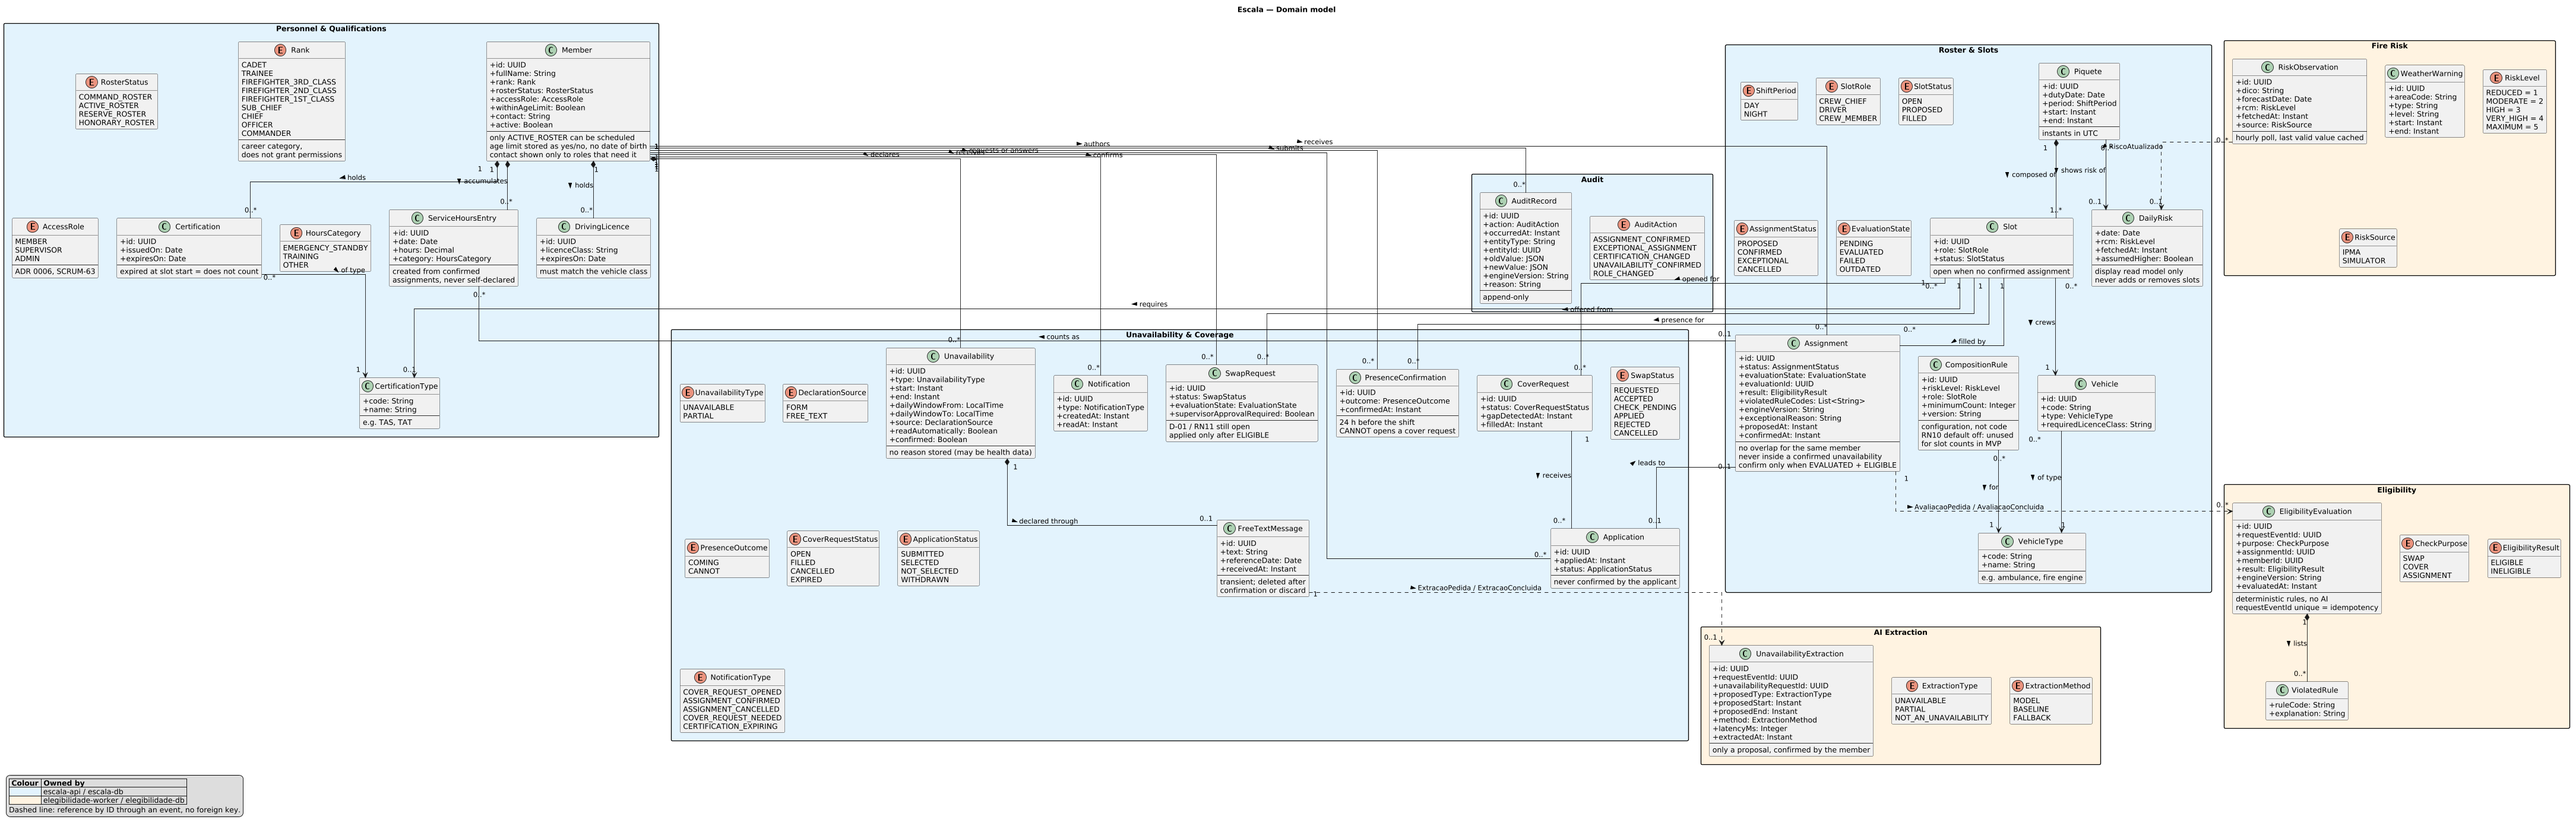
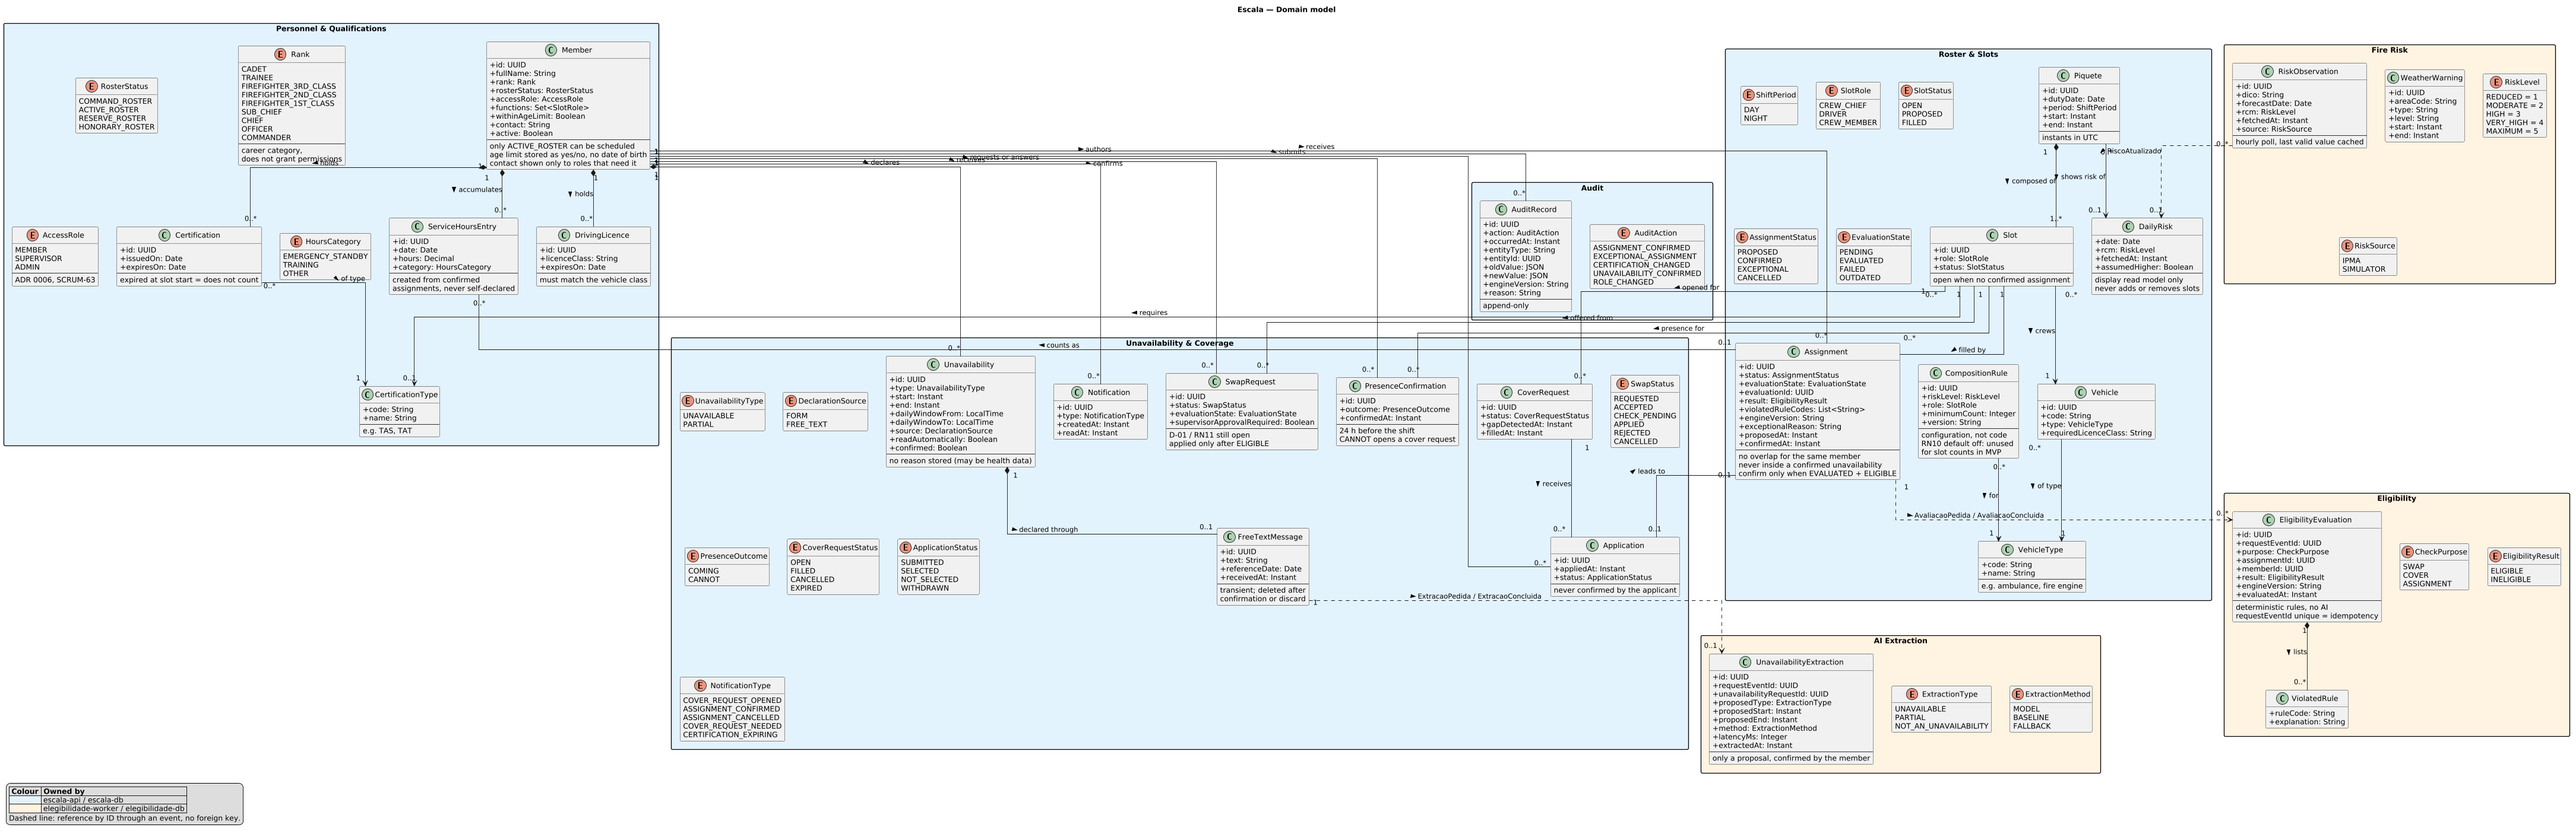
docs: members in the contract, design, domain model and test strategy, SCRUM-77

diff --git a/docs/testing/test-strategy.md b/docs/testing/test-strategy.md
@@ -63,6 +63,8 @@ At least 70% of the lines of new code, measured with JaCoCo (Java services) and 
 | `escala-api` | `EscalaApiApplicationTests` | 1 | The application starts with a PostgreSQL and a RabbitMQ container |
 | `escala-api` | `CreatePiqueteIT` | 2 | Creating a piquete through the API (integration, Testcontainers) |
 | `escala-api` | `RoleAccessIT` | 14 | TC-SCRUM-63-02: a member or the admin calling `POST /api/v1/piquetes` gets `403` and no row changes; TC-SCRUM-63-03: no token, an unreadable token, the token of an unknown or inactive member or with another role answers `401`, and mock-sign-in of an unknown or inactive member answers `401` with no token; TC-SCRUM-63-04: the three health endpoints answer without a token; the mocked users, a working sign-in, and the token never in the logs |
+| `escala-api` | `RegisterMemberIT` | 7 | TC-SCRUM-77-01: the admin registers a member on the active roster as a driver, class C, TAS until 2027-03-31, who appears in the list with those details; TC-SCRUM-77-02: an expiry before the issue date answers `400` with the field and a code and nothing is saved, on registration and on editing; a renewal replaces the dates; a driver without a licence, a missing name, an unknown or repeated type answer `400` without the values; the seeded users |
+| `escala-api` | `MemberAccessIT` | 6 | TC-SCRUM-77-05: a member or a supervisor editing certifications, registering or changing a member gets `403` and nothing changes; the contact only for the admin and the member themself, and never in the logs; the certification types; `404` for an unknown member |
 | `escala-api` | `LogLeakIT` | 4 | TC-SCRUM-94-01, 02, 05, 06 with the levels of dev: a marker in a processed message, in a message the listener rejects, in a request body the API rejects, and in a row the database rejects never reaches the logs |
 | `escala-api` | `LogLeakVerboseLevelsIT` | 2 | TC-SCRUM-94-03, 04 with root `DEBUG`, SQL binds at `TRACE` and Spring AMQP at `DEBUG`: request values, SQL values and message bodies never reach the logs |
 | `escala-api` | `FlywayFreshDatabaseIT` | 1 | TC-SCRUM-87-01: an empty database is built by the migrations and its columns and constraints are identical to the schema `ddl-auto=update` created up to 0.3.0 |
@@ -81,9 +83,11 @@ At least 70% of the lines of new code, measured with JaCoCo (Java services) and 
 | `elegibilidade-worker` | `FlywayExistingDatabaseIT` | 1 | TC-SCRUM-87-02: a database created by 0.3.0 with one evaluation is baselined at version 1 and keeps the evaluation |
 | `elegibilidade-worker` | `RetryCountSurvivesRestartIT`, `DuplicateDeliveryIT`, `MalformedMessageIT`, `TopologyMatchesDefinitionsIT`, `ListenerAuthenticationIT` | 1, 1, 2, 5, 1 | TC-SCRUM-95-01, 02, 04, 05, 06, as for `escala-api`; a duplicate `AvaliacaoPedida` gives one evaluation and one `AvaliacaoConcluida` |
 | `elegibilidade-worker` | `EvaluationFailedIT` | 1 | TC-SCRUM-95-03: a request the worker cannot evaluate after the retries is answered `FAILED`, never `ELIGIBLE`, and is in the DLQ |
-| `apps/web` | `app.spec.ts` | 17 | The piquete list, creating a piquete and polling until the slot is `ELIGIBLE`, error and offline states, and the install prompt; TC-SCRUM-63-01: "supervisor" signs in and sees the schedule editor, "member" and "admin" see the schedule without it; the token on every call, back to sign-in on `401`, sign-out clears the session and the cached roster |
+| `apps/web` | `app.spec.ts` | 8 | The shell: TC-SCRUM-63-01 "supervisor" signs in and sees the schedule editor; the token on every call, back to sign-in on `401`, sign-out clears the session and the cached roster; "Members" in the menu of supervisor and admin only, and the role guard; TC-SCRUM-46-02 the install prompt |
+| `apps/web` | `schedule/schedule.spec.ts` | 12 | The piquete list, creating a piquete and polling until the slot is `ELIGIBLE`, error and offline states; TC-SCRUM-46-01; TC-SCRUM-63-01 "member" and "admin" see the schedule without the editor |
+| `apps/web` | `members/members.spec.ts` | 8 | TC-SCRUM-77-01 the admin registers a driver with a class C licence and a TAS until 2027-03-31 and sees them in the list; TC-SCRUM-77-02 an expiry before the issue date shows an error and nothing is sent, and the errors the API answers are shown; a driver without a licence; editing; the supervisor's list without contacts or edit links; the guard of the form |
 
-Counts are from `./mvnw verify` and `npm run test:ci` on 2026-11-01, on 2026-11-09 for the Flyway tests, on 2026-11-12 for the logging and messaging tests and on 2026-11-15 for the sign-in tests. Every Java test runs against the Flyway migrations, and every call to `/api/v1/piquetes` carries the mocked token of a seeded user (`MockTokens`); `FlywayFreshDatabaseIT` stops at version 1, the version it compares with 0.3.0. Only the Flyway, logging, messaging and sign-in tests carry a `TC-` ID so far.
+Counts are from `./mvnw verify` and `npm run test:ci` on 2026-11-01, on 2026-11-09 for the Flyway tests, on 2026-11-12 for the logging and messaging tests and on 2026-11-15 for the sign-in tests and on 2026-11-22 for the member tests. Every Java test runs against the Flyway migrations, and every call to `/api/v1/piquetes` carries the mocked token of a seeded user (`MockTokens`); `FlywayFreshDatabaseIT` stops at version 1, the version it compares with 0.3.0. Only the Flyway, logging, messaging, sign-in and member tests carry a `TC-` ID so far.
 
 ## Test case convention
 
@@ -93,7 +97,7 @@ Counts are from `./mvnw verify` and `npm run test:ci` on 2026-11-01, on 2026-11-
 - **Traceability:** the TC IDs are linked in Jira; each automated test carries its TC ID in its name, so a CI report can be traced back to the story. In `apps/web` the ID starts the test name, e.g. `it('TC-SCRUM-46-01 lists today's date, slot and evaluation status', …)`; for the Java tests the form is `@DisplayName("TC-SCRUM-<key>-nn …")`.
 - **Manual functional tests** (DoD: "functional tests performed and recorded"): record TC ID, date, version, who and result [TODO: where, e.g. a comment on the Jira story].
 
-Test cases with a `TC-` ID today, both in `apps/web/src/app/app.spec.ts` (story SCRUM-46, the installable phone PWA):
+Test cases of story SCRUM-46 (the installable phone PWA), in `apps/web/src/app/schedule/schedule.spec.ts` and `apps/web/src/app/app.spec.ts`:
 
 - `TC-SCRUM-46-01`: lists today's date, slot and evaluation status.
 - `TC-SCRUM-46-02`: offers install when the browser fires `beforeinstallprompt`.

diff --git a/docs/architecture/technical-design.md b/docs/architecture/technical-design.md
@@ -141,7 +141,7 @@ If Escala itself is down, the corps uses the phone. Runbook: [Deployment and Ope
 
 Source: [`domain_model.puml`](domain_model.puml). Cross-service IDs are references on events, never foreign keys. Instants in UTC; PWA shows `Europe/Lisbon` ([ADR 0012](../adr/0012-store-instants-in-utc.md)).
 
-- `escala-db` (blue): Member, Certification, DrivingLicence, ServiceHoursEntry, Vehicle, Piquete, Slot, Assignment, DailyRisk (display only), Unavailability, FreeTextMessage (deleted after confirmation), SwapRequest, PresenceConfirmation, CoverRequest, Application, Notification, AuditRecord, outbox.
+- `escala-db` (blue): Member (with its functions, migration V4), Certification (types TAS and TAT), DrivingLicence, ServiceHoursEntry, Vehicle, Piquete, Slot, Assignment, DailyRisk (display only), Unavailability, FreeTextMessage (deleted after confirmation), SwapRequest, PresenceConfirmation, CoverRequest, Application, Notification, AuditRecord, outbox.
 - `elegibilidade-db` (orange): EligibilityEvaluation (`purpose` SWAP/COVER/ASSIGNMENT), ViolatedRule, UnavailabilityExtraction, RiskObservation, WeatherWarning, outbox.
 
 ![Escala — Domain model](domain_model.png)
@@ -159,6 +159,12 @@ Consistency is strong inside each database and eventual between services (visibl
   - The token is `mock.` and the base64url of `{"memberId","role"}`. It is **not signed**: `escala-api` accepts it only for an active member whose role in the `member` table (migration V3) is the role in the token. Anyone can build the token of a seeded user, the same exposure as the mocked sign-in itself (09, T-01): synthetic data only, real authentication before any real data.
   - `auth/SecurityConfig` checks the role on the server for every request: `GET /api/v1/piquetes` for any role, `POST /api/v1/piquetes` for `SUPERVISOR` only (09: the admin does not build the schedule). No token, or one that is not accepted, answers `401`; a role that is not allowed, `403`; any other path is refused. The health endpoints and the two sign-in endpoints stay open. Tests: TC-SCRUM-63-01 to 04 ([test strategy](../testing/test-strategy.md)).
   - The token is never logged. Endpoints that act for a member will take it from the token (`SignedInMember`), never from the body (T-03, SCRUM-68 and SCRUM-73).
+- Members (SCRUM-77): `GET` and `POST /api/v1/members`, `GET` and `PUT /api/v1/members/{id}`, `PUT /api/v1/members/{id}/certifications` and `GET /api/v1/certification-types`.
+  - Only `ADMIN` registers and edits (09: "Edit members and certifications"); `SUPERVISOR` and `ADMIN` read the list; a `MEMBER` reads only themself. A new member is always `MEMBER`: changing a role waits for audit records (T-06).
+  - The contact is in the answer only for the admin and the member themself, and is never logged (09, data minimisation).
+  - Functions are the slot roles (`CREW_CHIEF`, `DRIVER`, `CREW_MEMBER`). There is one certification per type and one licence per class: a renewal replaces the dates, with no history. A driver needs a licence; a certification cannot expire before it was issued.
+  - An invalid request answers `400` with `errors: [{field, code}]` and never the values (`ValidationErrorResponse` in the contract); SCRUM-88 aligns the other errors with it. Tests: TC-SCRUM-77-01, 02 and 05.
+  - No qualification rule (RN01, RN02) runs in `escala-api`: the eligibility rules belong to the worker (ADR 0007, SCRUM-65 and SCRUM-79).
 - Header: `X-Trace-Id` (RF37)
 
 Walking skeleton: `POST /api/v1/piquetes` (201 + `Location`, slot `PENDING`) · worker `SEMPRE_ELEGIVEL` · `ELIGIBLE` · today's piquete PWA (SCRUM-45/46/47). Product API (planned): `GET /me/roster` · `POST /piquetes/{id}/publish` · `POST /unavailabilities` (202) · `POST /swaps` · `POST /swaps/{id}/accept` · `POST /slots/{id}/presence` · `POST /cover-requests/{id}/accept` · `POST /assignments/{id}/confirm` (RF24) · `GET /risk/today`. Health: `/actuator/health` with `liveness` and `readiness` groups (RF36).
